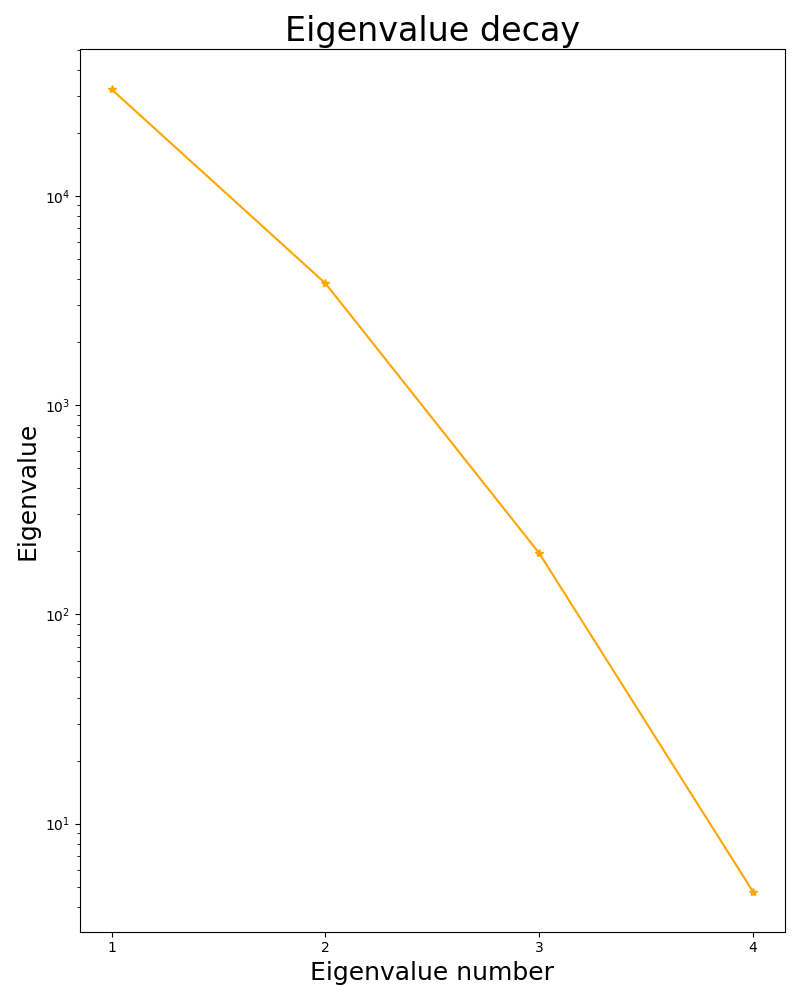
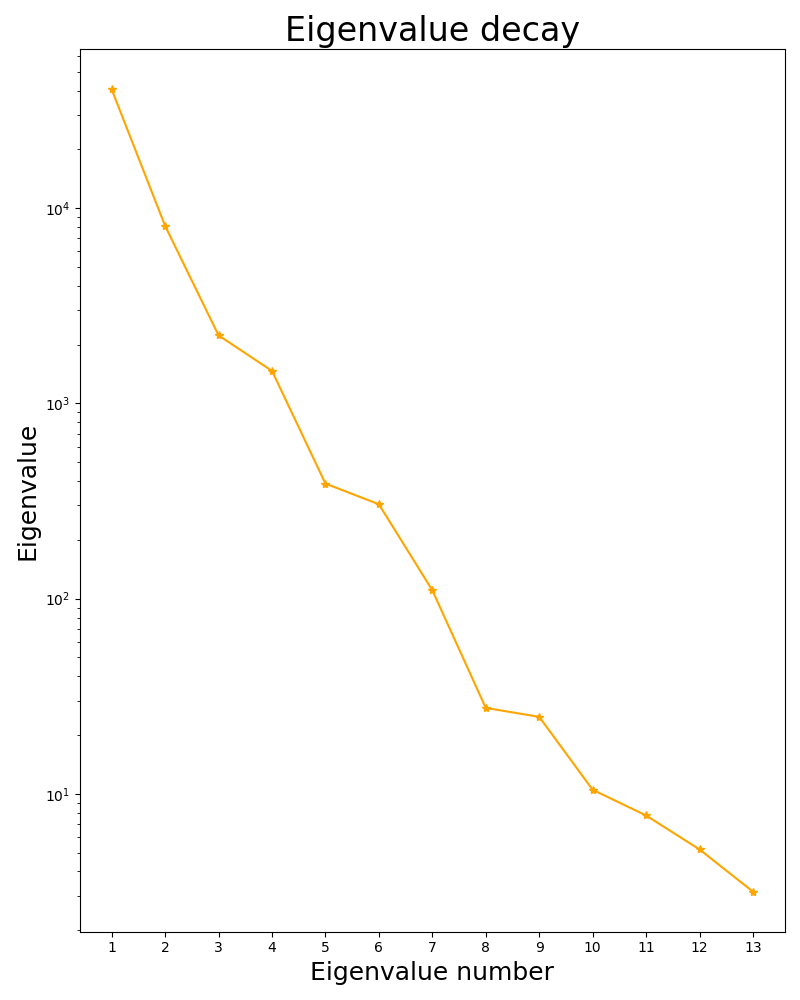
[skip ci] Saddle point distributed in work

diff --git a/demo/saddle_point_dlrbnicsx_distributed/dlrbnicsx_saddle_point_distributed.py b/demo/saddle_point_dlrbnicsx_distributed/dlrbnicsx_saddle_point_distributed.py
@@ -507,7 +507,7 @@ mu = np.array([-1., 1.5, 0.7, 0.3, 3.4])
 
 para_dim = 5
 ann_input_samples_num = 1100
-error_analysis_samples_num = 500
+error_analysis_samples_num = 800
 num_snapshots = 1000
 itemsize = MPI.DOUBLE.Get_size()
 
@@ -546,19 +546,13 @@ if world_comm.rank == 0:
 '''
 
 # POD Starts ###
-Nmax_sigma = 30
-Nmax_u = 30
-tol_sigma = 1.e-4
-tol_u = 1.e-4
+Nmax_sigma = 100
+Nmax_u = 100
+tol_sigma = 1.e-6
+tol_u = 1.e-6
 
 def generate_training_set(num_samples, para_dim):
-    # training_set = np.random.uniform(size=(num_samples, para_dim))
-    training_set = np.zeros((num_samples, para_dim))
-    training_set[:, 0] = np.linspace(0., 1., num=num_samples)
-    training_set[:, 1] = np.linspace(0., 1., num=num_samples)
-    training_set[:, 2] = np.linspace(0., 1., num=num_samples)
-    training_set[:, 3] = np.linspace(0., 1., num=num_samples)
-    training_set[:, 4] = np.linspace(0., 1., num=num_samples)
+    training_set = np.random.uniform(size=(num_samples, para_dim))
     training_set[:, 0] = (-1.5 + 2.5) * training_set[:, 0] - 2.5
     training_set[:, 1] = (1. - 0.) * training_set[:, 1] + 0.
     training_set[:, 2] = (0.8 - 0.2) * training_set[:, 2] + 0.2
@@ -730,24 +724,11 @@ print(f"Norm reconstructed: {sigma_norm}, projection error: {sigma_error}")
 # ### Projection error samples ###
 # Creating dataset
 def generate_projection_error_set(num_projection_samples=10):
-    '''
     xlimits = np.array([[-1., 1.], [0.4, 0.6],
                         [0.4, 0.6], [0.4, 0.6],
                         [2.5, 3.5]])
     sampling = LHS(xlimits=xlimits)
     training_set = sampling(num_projection_samples)
-    '''
-    training_set = np.zeros((num_projection_samples, para_dim))
-    training_set[:, 0] = np.linspace(0., 1., num=num_projection_samples)
-    training_set[:, 1] = np.linspace(0., 1., num=num_projection_samples)
-    training_set[:, 2] = np.linspace(0., 1., num=num_projection_samples)
-    training_set[:, 3] = np.linspace(0., 1., num=num_projection_samples)
-    training_set[:, 4] = np.linspace(0., 1., num=num_projection_samples)
-    training_set[:, 0] = (-1.5 + 2.5) * training_set[:, 0] - 2.5
-    training_set[:, 1] = (1. - 0.) * training_set[:, 1] + 0.
-    training_set[:, 2] = (0.8 - 0.2) * training_set[:, 2] + 0.2
-    training_set[:, 3] = (0.8 - 0.2) * training_set[:, 3] + 0.2
-    training_set[:, 4] = (3.5 - 2.5) * training_set[:, 3] + 2.5
     return training_set
 
 if world_comm.rank == 0:
@@ -873,25 +854,12 @@ if fem_comm_list[0] != MPI.COMM_NULL:
 
 # Creating dataset
 def generate_ann_input_set(num_ann_samples=10):
-    '''
     # ((-2.5, -1.5), (0., 1.), (0.2, 0.8), (0.2, 0.8), (2.5, 3.5))
     xlimits = np.array([[-2.5, -1.5], [0., 1.],
                         [0.2, 0.8], [0.2, 0.8],
                         [2.5, 3.5]])
     sampling = LHS(xlimits=xlimits)
     training_set = sampling(num_ann_samples)
-    '''
-    training_set = np.zeros((num_ann_samples, para_dim))
-    training_set[:, 0] = np.linspace(0., 1., num=num_ann_samples)
-    training_set[:, 1] = np.linspace(0., 1., num=num_ann_samples)
-    training_set[:, 2] = np.linspace(0., 1., num=num_ann_samples)
-    training_set[:, 3] = np.linspace(0., 1., num=num_ann_samples)
-    training_set[:, 4] = np.linspace(0., 1., num=num_ann_samples)
-    training_set[:, 0] = (-1.5 + 2.5) * training_set[:, 0] - 2.5
-    training_set[:, 1] = (1. - 0.) * training_set[:, 1] + 0.
-    training_set[:, 2] = (0.8 - 0.2) * training_set[:, 2] + 0.2
-    training_set[:, 3] = (0.8 - 0.2) * training_set[:, 3] + 0.2
-    training_set[:, 4] = (3.5 - 2.5) * training_set[:, 3] + 2.5
     return training_set
 
 def generate_ann_output_set(problem, reduced_problem, input_set,
@@ -1120,7 +1088,7 @@ if world_comm.size == 8:
     checkpoint_path_list_sigma = \
         ["checkpoint_sigma0", "checkpoint_sigma1",
          "checkpoint_sigma2", "checkpoint_sigma3"]
-    model_root_process_list_sigma = [0, 3, 4, 7]
+    model_root_process_list_sigma = [0, 2, 4, 6]
     trained_model_path_list_sigma = \
         ["trained_model_sigma0.pth", "trained_model_sigma1.pth",
          "trained_model_sigma2.pth", "trained_model_sigma3.pth"]
@@ -1183,7 +1151,7 @@ for j in range(len(ann_comm_list_sigma)):
             DataLoader(customDataset_sigma, batch_size=input_validation_set.shape[0], shuffle=False)
 
         # save_model(ann_model_list_sigma[j], path_list_sigma[j])
-        load_model(ann_model_list_sigma[j], path_list_sigma[j])
+        # load_model(ann_model_list_sigma[j], path_list_sigma[j])
 
         model_synchronise(ann_model_list_sigma[j], verbose=False)
 
@@ -1196,7 +1164,7 @@ for j in range(len(ann_comm_list_sigma)):
         start_epoch_sigma = 0
         checkpoint_epoch_sigma = 10
 
-        learning_rate_sigma = 5.e-6 # 1.e-4
+        learning_rate_sigma = 1.e-5 # 1.e-4
         optimiser_sigma = get_optimiser(ann_model_list_sigma[j], "Adam", learning_rate_sigma)
         loss_fn_sigma = get_loss_func("MSE", reduction="sum")
 
@@ -1206,6 +1174,7 @@ for j in range(len(ann_comm_list_sigma)):
                                 optimiser_sigma)
 
         import time
+        ann_comm_list_sigma[j].Barrier()
         start_time = time.process_time()
         for epochs in range(start_epoch_sigma, max_epochs_sigma):
             if epochs > 0 and epochs % checkpoint_epoch_sigma == 0:
@@ -1473,7 +1442,7 @@ for j in range(len(ann_comm_list_u)):
             DataLoader(customDataset_u, batch_size=input_validation_set.shape[0], shuffle=False)
 
         # save_model(ann_model_list_u[j], path_list_u[j])
-        load_model(ann_model_list_u[j], path_list_u[j])
+        # load_model(ann_model_list_u[j], path_list_u[j])
 
         model_synchronise(ann_model_list_u[j], verbose=False)
 
@@ -1481,12 +1450,12 @@ for j in range(len(ann_comm_list_u)):
         training_loss = list()
         validation_loss = list()
 
-        max_epochs_u = 50 # 50000
+        max_epochs_u = 50000
         min_validation_loss_u = None
         start_epoch_u = 0
         checkpoint_epoch_u = 10
 
-        learning_rate_u = 5.e-6 # 1.e-4
+        learning_rate_u = 1.e-5 # 1.e-4
         optimiser_u = get_optimiser(ann_model_list_u[j], "Adam", learning_rate_u)
         loss_fn_u = get_loss_func("MSE", reduction="sum")
 
@@ -1496,6 +1465,7 @@ for j in range(len(ann_comm_list_u)):
                                 optimiser_u)
 
         import time
+        ann_comm_list_u[j].Barrier()
         start_time = time.process_time()
         for epochs in range(start_epoch_u, max_epochs_u):
             if epochs > 0 and epochs % checkpoint_epoch_u == 0:
